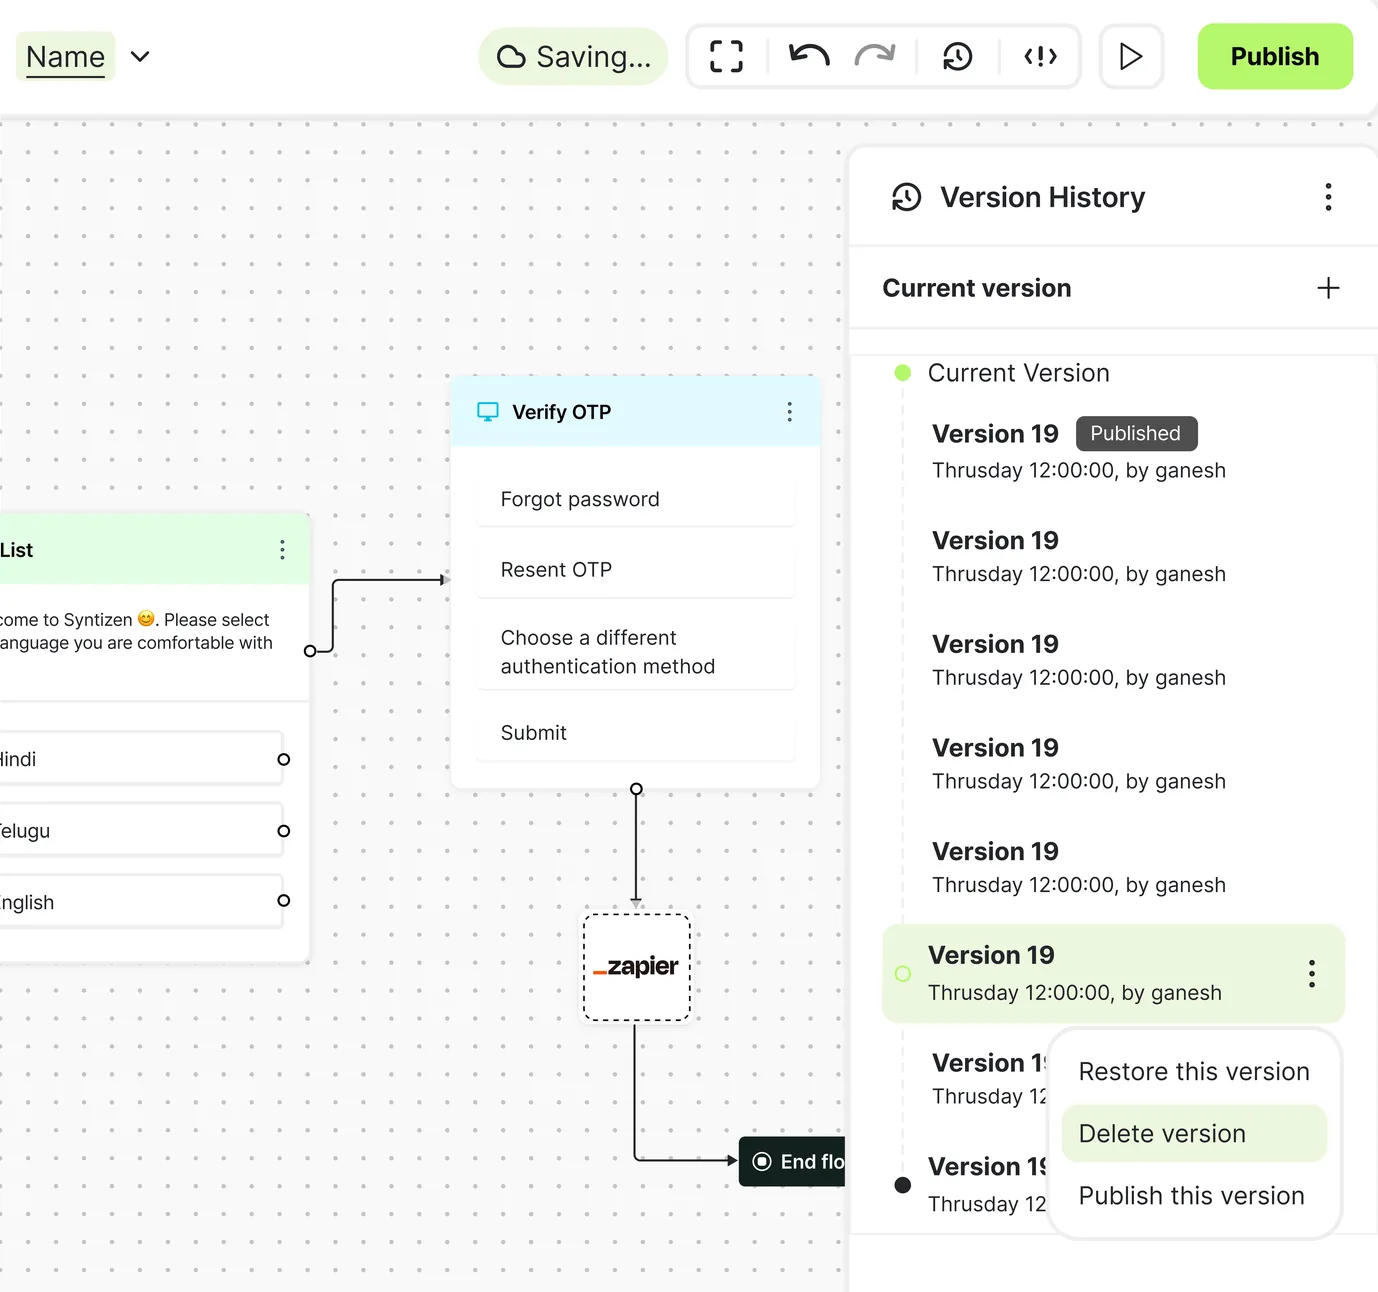
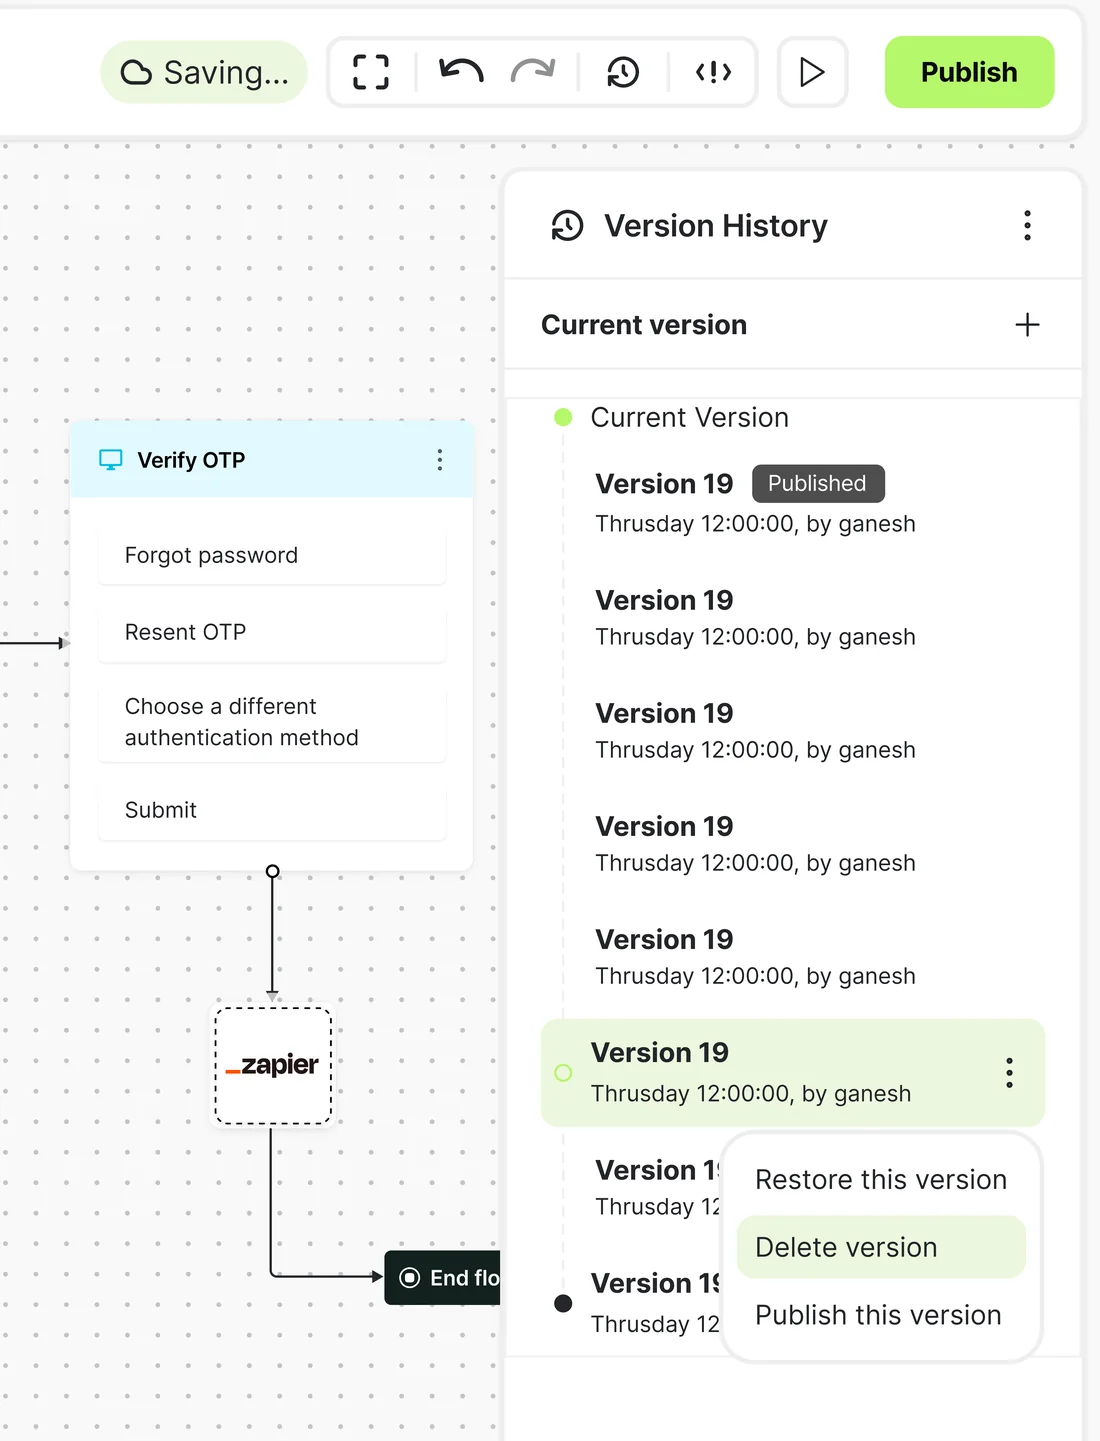
Recrop version-history so nothing is sliced at the edges
The previous crop cut through a canvas node on the left edge. Recrops
from the source at a boundary that excludes it entirely, so every
element in frame (the Verify OTP node, zapier, end flow, and the full
Version History panel) is completely visible with nothing chopped off.

diff --git a/src/app/platform-evolution/reimagined/page.tsx b/src/app/platform-evolution/reimagined/page.tsx
@@ -433,7 +433,7 @@ export default function ReimaginedPage() {
               src="/images/platform-evolution/custom-api-node.png"
             />
             <TerminalPlaceholder
-              aspect="1378/1292"
+              aspect="1100/1441"
               label="Version history"
               note="Published and draft tracks, author and timestamp."
               src="/images/platform-evolution/version-history.webp"

diff --git a/src/app/platform-evolution/page.tsx b/src/app/platform-evolution/page.tsx
@@ -254,7 +254,7 @@ export default function PlatformEvolutionPage() {
               src="/images/platform-evolution/custom-api-node.png"
             />
             <ImagePlaceholder
-              aspect="1378/1292"
+              aspect="1100/1441"
               label="Version history"
               note="Published and draft tracks, with author and timestamp on every version."
               delay={0.1}
